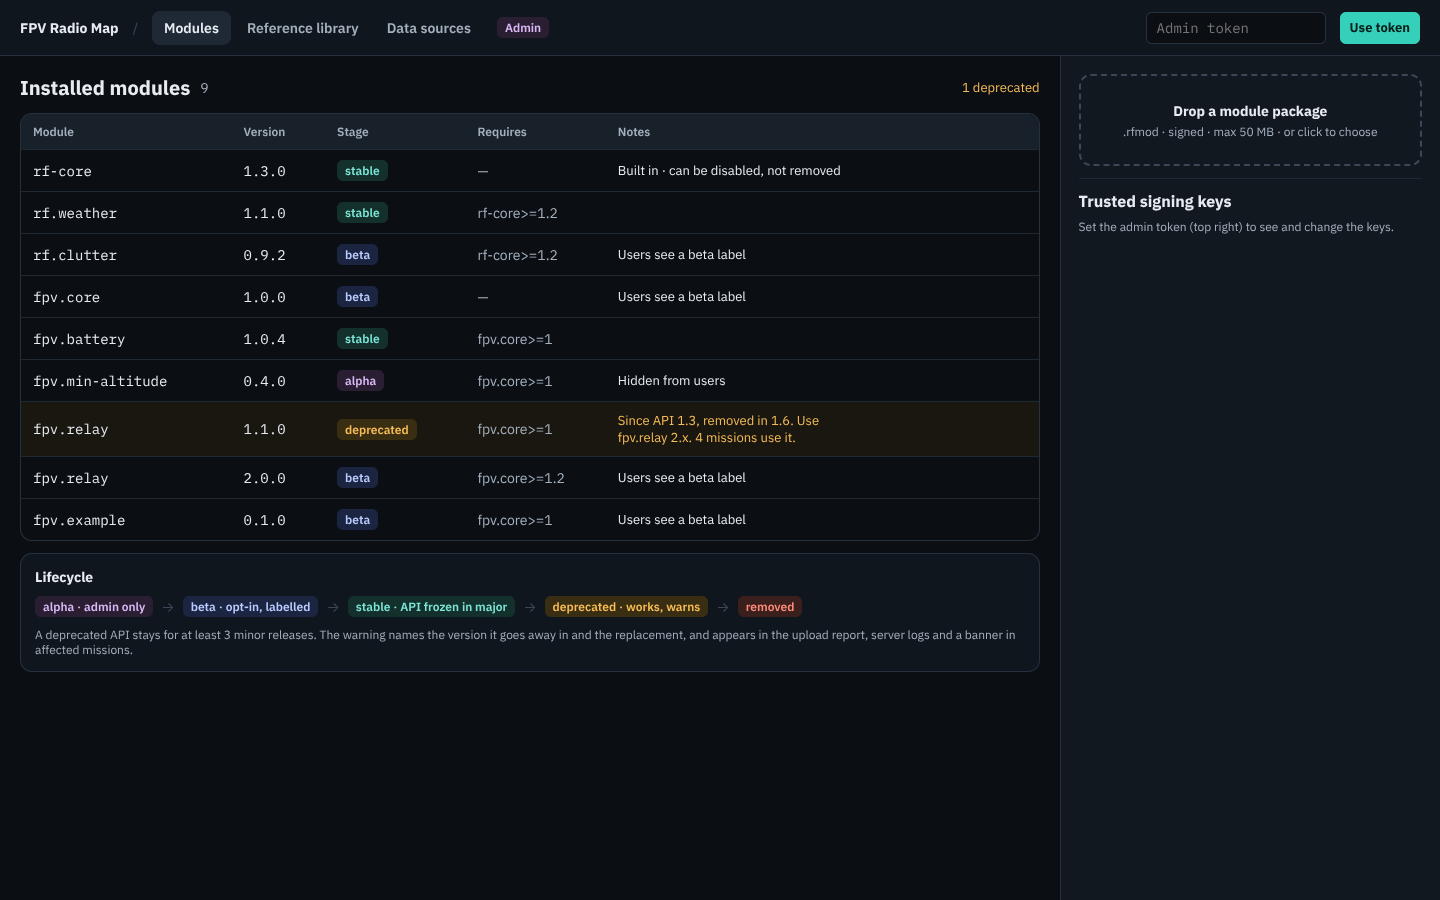
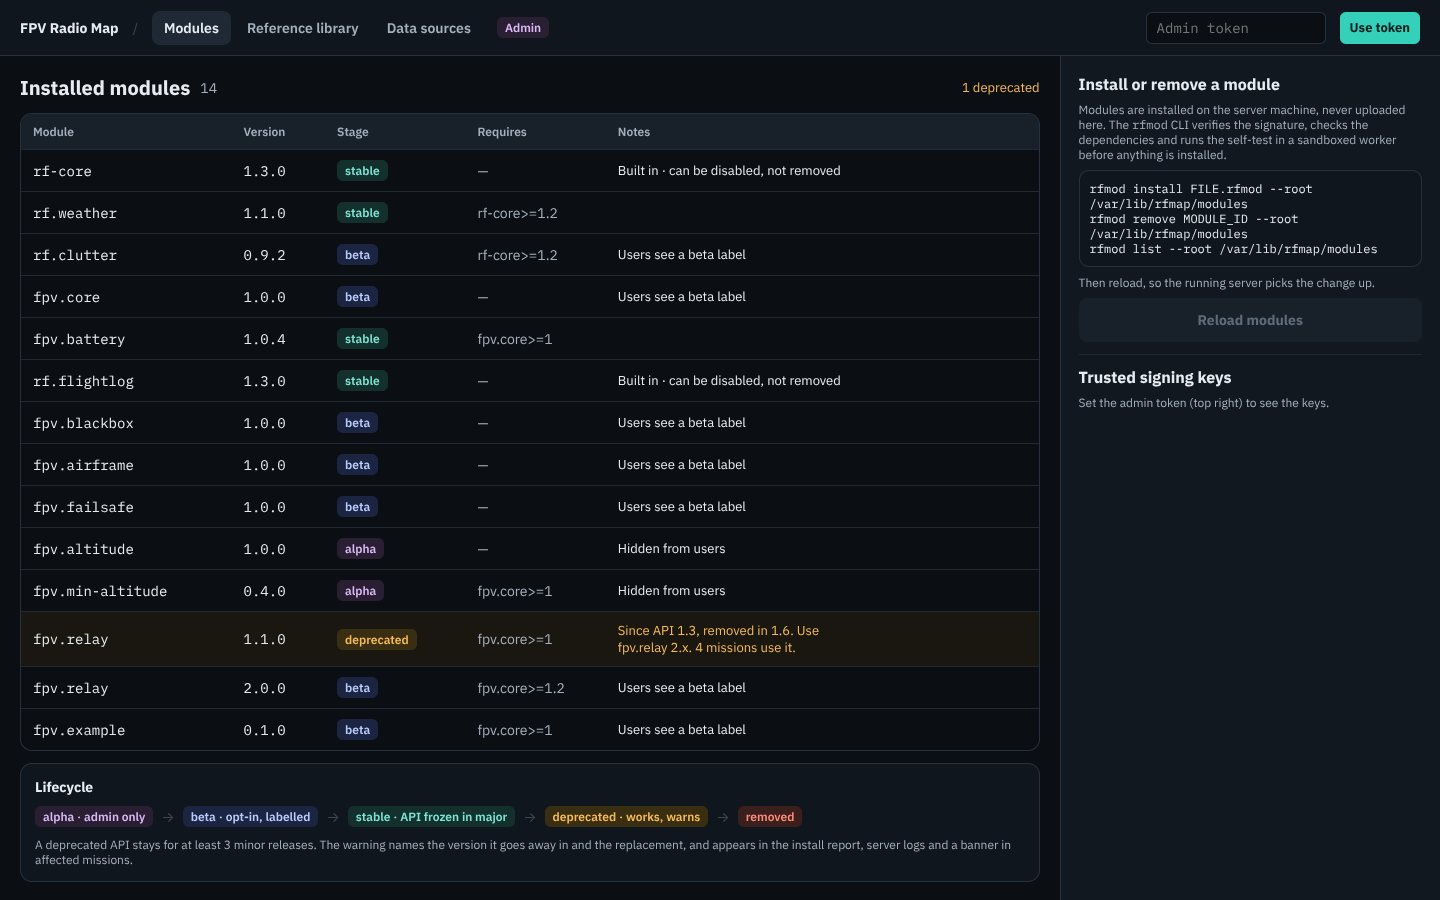
docs: refresh the screenshots and add fixed-wing and autonomous ones
Regenerates the README screenshots from the mock build, adds a fixed-wing
and an autonomous route shot to the screenshot script and the README,
and asks in CONTRIBUTING for docs and screenshots with every change
they describe.

Claude-Session: https://claude.ai/code/session_01DSTENPSJeAgWq2xK3YgDx6

diff --git a/README.md b/README.md
@@ -68,6 +68,14 @@ it was. Generic coverage maps answer "is there signal here". This project answer
 <td><b>Compare two setups.</b> For example a different antenna or frequency: worst margins side by side, and the route coloured by B − A.</td>
 <td><b>Share and export.</b> Read-only links protected by a PIN that the owner can revoke, plus KML and GPX.</td>
 </tr>
+<tr>
+<td><img src="docs/images/laptop-fixed-wing.png" alt="Fixed-wing drone: flight checks card with the stall margin in a 45 degree turn"></td>
+<td><img src="docs/images/laptop-autonomous.png" alt="Autonomous route: lost video link on legs 3 and 4 shown as warnings, with the links lost on the way card"></td>
+</tr>
+<tr>
+<td><b>Plan a fixed-wing.</b> The route is checked against the plane's envelope: climb and dive angles over the terrain, turn radius at each waypoint and the stall margin in a banked turn.</td>
+<td><b>Fly an uploaded route.</b> In autonomous mode the links are optional. A lost link is a warning that shows where the pilot cannot take over, not a block.</td>
+</tr>
 </table>
 
 <p align="center">

diff --git a/CONTRIBUTING.md b/CONTRIBUTING.md
@@ -42,6 +42,15 @@ the page named after its first heading, `docs/README.md` becomes Home and `docs/
 sidebar. Edit `docs/`, not the wiki; wiki edits are overwritten. Link to other docs with relative
 paths, and the publisher turns them into wiki links.
 
+Keep the documentation in the same pull request as the change. When a change adds or alters a
+feature, a module, an option, an API field or how the app looks, update every place that describes
+it: the feature table in `README.md`, the guides in `docs/`, `docs/api/openapi.yaml`, the module's
+manifest and the setup steps in `docs/admin/production-setup.md`.
+
+When a change alters the interface, regenerate the screenshots: `npm run build:mock`, then
+`npm run screenshots` in `web/`. Add a step to `web/scripts/screenshots.mjs` for a new screen,
+check the images, then copy the ones the README shows from `web/screenshots/` to `docs/images/`.
+
 ## Commit messages: Conventional Commits
 
 Releases are made by [semantic-release](https://semantic-release.gitbook.io) from the commit
